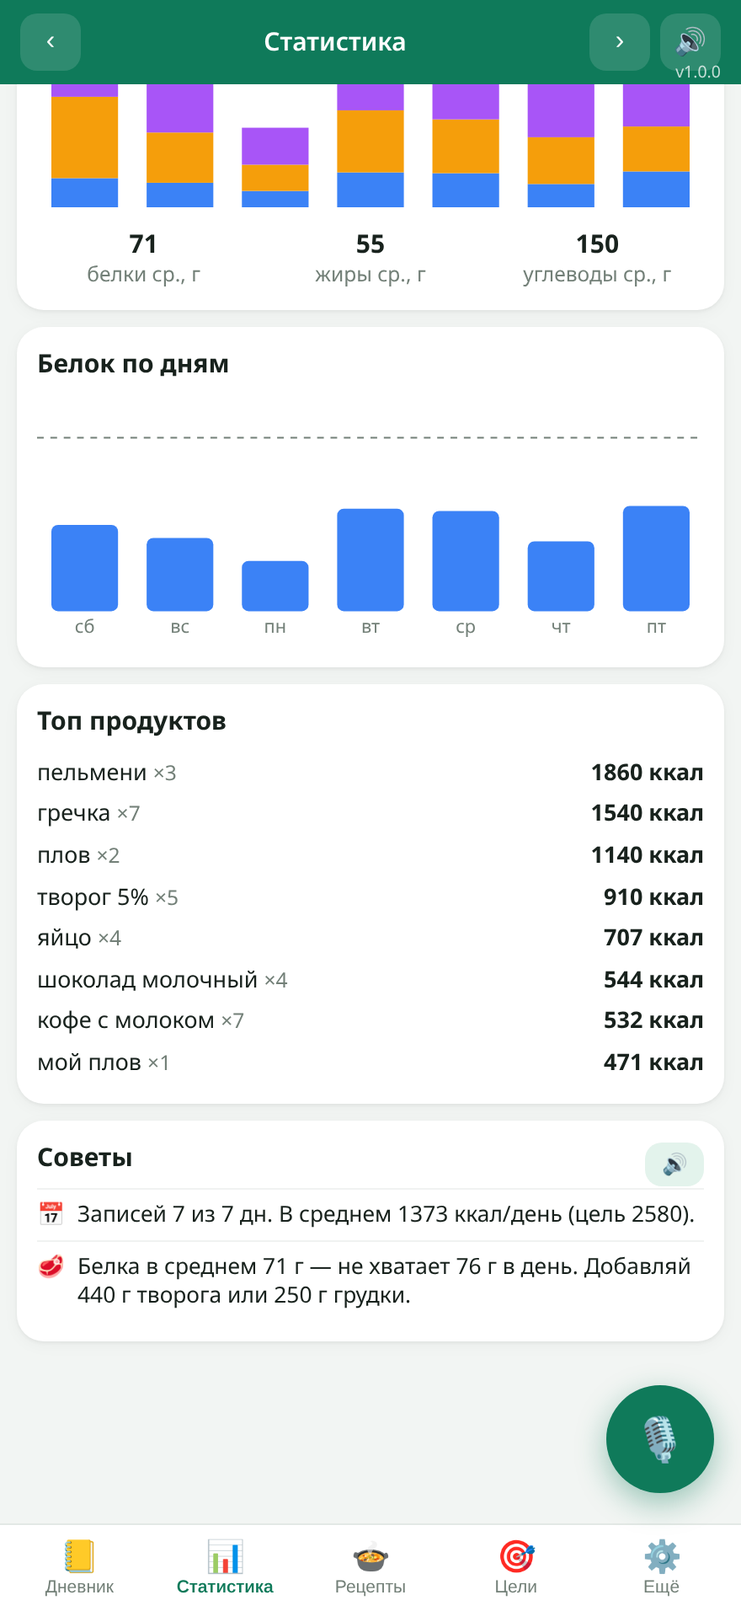
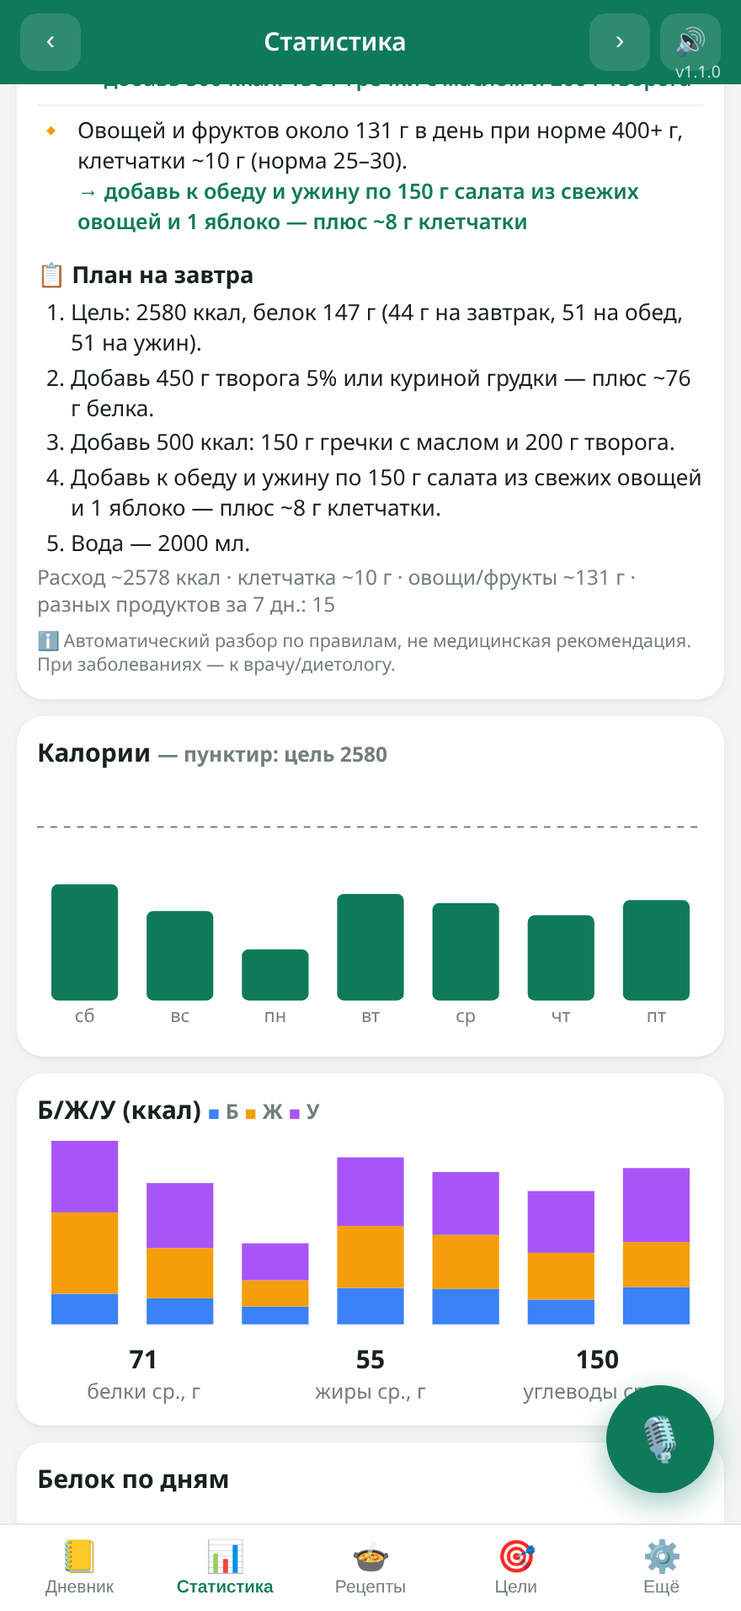
v1.1.0: раздел «Нутрициолог» (день/неделя/месяц), тесты

diff --git a/nutri.js b/nutri.js
@@ -1,0 +1,91 @@
+// «Нутрициолог»: офлайн-анализ рациона по правилам. Чистая функция — тестируется в node.
+(function(G){'use strict';
+const R=Math.round;
+const RX={sweet:/торт|шоколад|конфет|печень|пирожн|мороже|пломбир|эскимо|сгущ|варень|джем|повидл|мармелад|зефир|пастил|халв|нутелл|вафл|пряник|кекс|маффин|пончик|чизкейк|тирамису|батончик|сникерс|марс|твикс|киткат|сырок глазир|^сахар|мед$|карамел|медовик|наполеон|слойк/,
+ sugary:/лимонад|газировк|кола(?! зеро)|сок |^сок|морс|компот|кисель|энергетик|сироп|с сахаром|какао|раф|молочный коктейль|смузи/,
+ upf:/колбас|сосиск|сарделк|ветчин|бекон|буженин|шпикачк|чипс|наггетс|быстрого приготовления|доширак|майонез|лимонад|энергетик|батончик|сухарик|кириешк|кетчуп|фри|бургер|чизбургер|биг мак|хот дог|крабов|паштет|пицц|шаурм|шаверм|сырок глазир|рыбные палочки|сырные палочки|луковые кольца|попкорн|тушенк|колбаски/,
+ fried:/жарен|фри|чебурек|беляш|пончик|драники|наггетс|в кляре|яичниц|отбивн|шницел|чипс|оладь|пирожок|самса|луковые кольца|сырные палочки|по-киевски|поджарк/,
+ alco:/^пиво(?! безалк)|пиво темн|^вино|водк|коньяк|виски|шампанск|^ром|текил|джин|ликер|сидр|коктейль алког|^коктейль$|кофе по-ирландски/,
+ veg:/салат|овощ|рагу|винегрет|борщ|щи|окрошк|лечо|икра кабачк|капуста|брокколи|огур|помидор|томат|кабач|баклажан|перец|морков|свекл|шпинат|тыкв/,
+ legume:/фасол|чечевиц|нут|горох|горош|хумус|фалафел/,whole:/гречк|овсян|бур|перлов|булгур|киноа|черный|цельнозерн|ржан|отруб|мюсли|гранол|хлебц/,nut:/орех|миндал|фундук|арахис|кешью|фисташ|семечк|семена|кунжут|чиа|курага|изюм|чернослив|финик/};
+// клетчатка (г/100 г) — оценка по категории/названию
+function fiber100(e){ const n=e.name.toLowerCase(), c=e.cat||'';
+  if(RX.legume.test(n))return 6; if(RX.nut.test(n)||c==='nut')return 7; if(/отруб/.test(n))return 40; if(/сух|хлопья|мюсли|гранол/.test(n)&&c==='grain')return 9;
+  if(c==='fruit'||/^яблок|банан|груш/.test(n))return /сок/.test(n)?0.2:2.2; if(c==='veg')return 2.3;
+  if(RX.whole.test(n))return c==='bread'?6:2.5; if(c==='grain')return 1.2; if(c==='bread')return 2.5; if(RX.veg.test(n))return 1.5; return 0 }
+function vegG(e){ const n=e.name.toLowerCase(),c=e.cat||''; if(/сок|компот|варенье|джем/.test(n))return 0; if(c==='veg'||c==='fruit')return e.g; if(RX.veg.test(n)&&c==='dish')return e.g*.4; return 0 }
+const SWAPS=[ // [кого заменяем, на что, его название в базе, причина]
+ [/майонез(?! легк)/,'сметану 10%',{k:115},'майонез'],[/^сыр (российский|голландский|гауда|чеддер|маасдам)/,'сыр лёгкий 15–17% или моцареллу',{k:270},'жирный сыр'],
+ [/колбаса|сосиск|сарделк|бекон/,'запечённую куриную грудку',{k:148},'колбасные изделия'],[/шоколад|конфет|печень|торт|пирожн|вафл|батончик|пончик|кекс/,'яблоко или ягоды',{k:47},'сладости'],
+ [/лимонад|кола(?! зеро)|энергетик/,'воду или колу без сахара',{k:0},'сладкие напитки'],[/^сок /,'целый фрукт',{k:47},'сок'],[/картофель фри|картофель жареный/,'запечённый картофель',{k:114},'жареный картофель'],
+ [/хлеб белый|батон|булочк|круассан/,'хлеб цельнозерновой',{k:247},'белый хлеб'],[/^пиво(?! безалк)|^вино/,'безалкогольное пиво или воду с лимоном',{k:26},'алкоголь'],
+ [/чипс|сухарик|кириешк/,'горсть орехов (20 г) или хлебцы',{k:300},'чипсы'],[/жарен/,'то же блюдо, запечённое или на пару',null,'жареное'],
+ [/масло (подсолнечное|растительное|сливочное)/,'на 1 ложку меньше масла, готовить на сковороде с антипригарным покрытием',null,'масло'],[/сметана (2|3)0/,'сметану 10% или греческий йогурт',{k:115},'жирная сметана']];
+function swapFor(top,days){ // top: [{n,k,g,f}] средние за день
+  for(const t of top){ const n=t.n.toLowerCase(); for(const [re,to,alt,lab] of SWAPS) if(re.test(n)){ const k100=t.k/t.g*100, d=alt?R((k100-alt.k)*t.g/100):R(t.k*.25);
+      if(d>=20) return {from:t.n,to,kcal:d,text:`замени ${t.n.toLowerCase()} (${R(t.g)} г/день) на ${to} — минус ~${d} ккал в день`} } }
+  return null }
+function agg(list,key){ const m={}; list.forEach(e=>{const x=m[e.name]||(m[e.name]={n:e.name,k:0,f:0,g:0,c:0,cnt:0});x.k+=e.k;x.f+=e.f;x.g+=e.g;x.c+=e.c;x.cnt++}); return Object.values(m).sort((a,b)=>b[key]-a[key]) }
+function analyze(o){ const g=o.goals, w=(o.prof&&o.prof.w)||70, keys=o.days.map(d=>d.key), logged=o.days.filter(d=>d.entries.length), N=Math.max(1,logged.length), P=o.days.length;
+  if(!logged.length) return {empty:true,score:0,strengths:[],problems:[],plan:['Записывай всё, что ешь, хотя бы 3 дня — тогда я смогу дать разбор.'],speech:'Пока нет данных для анализа.'};
+  const all=logged.flatMap(d=>d.entries), S=k=>all.reduce((a,e)=>a+(+e[k]||0),0)/N;
+  const m={k:S('k'),p:S('p'),f:S('f'),c:S('c')}; m.pkg=m.p/w; const kc=m.p*4+m.f*9+m.c*4||1; m.pct={p:m.p*4/kc*100,f:m.f*9/kc*100,c:m.c*4/kc*100};
+  const gk=g.p*4+g.f*9+g.c*4||1; m.gpct={p:g.p*4/gk*100,f:g.f*9/gk*100,c:g.c*4/gk*100};
+  const tdee=o.tdee||g.k; m.bal=m.k-tdee; m.wkg=m.bal*7/7700; // кг/нед
+  const mealK={}; all.forEach(e=>mealK[e.meal]=(mealK[e.meal]||0)+e.k); const tk=all.reduce((a,e)=>a+e.k,0)||1; m.meal={}; ['завтрак','обед','ужин','перекус'].forEach(x=>m.meal[x]=(mealK[x]||0)/tk*100);
+  m.noBreakfast=logged.filter(d=>!d.entries.some(e=>e.meal==='завтрак')).length; m.heavyDinner=logged.filter(d=>{const t=d.entries.reduce((a,e)=>a+e.k,0)||1;return d.entries.filter(e=>e.meal==='ужин').reduce((a,e)=>a+e.k,0)/t>.4}).length;
+  m.fiber=all.reduce((a,e)=>a+fiber100(e)*e.g/100,0)/N; m.veg=all.reduce((a,e)=>a+vegG(e),0)/N;
+  const cls=re=>all.filter(e=>re.test(e.name.toLowerCase()));
+  m.sweetK=cls(RX.sweet).reduce((a,e)=>a+e.k,0)/N; m.sugar=(cls(RX.sweet).reduce((a,e)=>a+e.c*.6,0)+cls(RX.sugary).reduce((a,e)=>a+e.c*.9,0))/N;
+  m.upf=cls(RX.upf).reduce((a,e)=>a+e.k,0)/N/Math.max(1,m.k)*100; m.fried=cls(RX.fried).length/N; m.alcoK=cls(RX.alco).reduce((a,e)=>a+e.k,0)/N; m.alcoDays=logged.filter(d=>d.entries.some(e=>RX.alco.test(e.name.toLowerCase()))).length;
+  m.water=o.trackWater?logged.reduce((a,d)=>a+(d.water||0),0)/N:null;
+  m.distinct=new Set(all.map(e=>e.name)).size; m.distinctWeek=new Set(o.days.slice(-7).flatMap(d=>d.entries.map(e=>e.name))).size; m.regular=logged.length/P*100; m.perDay=all.length/N;
+  const topK=agg(all,'k').map(x=>({n:x.n,k:x.k/N,f:x.f/N,g:x.g/N,c:x.c/N,cnt:x.cnt})), topF=agg(all,'f').map(x=>({n:x.n,k:x.k/N,f:x.f/N,g:x.g/N}));
+  m.topK=topK.slice(0,5); m.topF=topF.slice(0,3);
+  // ----- оценка -----
+  const good=[],bad=[]; let sc=10; const pen=(v,txt,swap,w)=>{bad.push({t:txt,swap,w});sc-=v}, plus=(txt,w)=>good.push({t:txt,w});
+  const pk=R(m.pkg*10)/10, ptarget=Math.max(1.4,g.p/w);
+  if(m.pkg<1.2) pen(2,`Белка мало: ${R(m.p)} г в день — ${R(m.p/(ptarget*w)*100)}% нормы для веса ${R(w)} кг (нужно ~${R(ptarget*w)} г).`,`добавь ${R((ptarget*w-m.p)/0.17/10)*10} г творога 5% или куриной грудки — плюс ~${R(ptarget*w-m.p)} г белка`,3);
+  else if(m.pkg<ptarget-.15) pen(1,`Белка чуть меньше нормы: ${R(m.p)} г — ${R(m.p/(ptarget*w)*100)}% от ~${R(ptarget*w)} г для веса ${R(w)} кг.`,`добавь на перекус 150 г греческого йогурта — плюс ~15 г белка`,2);
+  else plus(`Белок в норме: ${R(m.p)} г в день — ${R(m.p/(ptarget*w)*100)}% нормы для веса ${R(w)} кг.`,3);
+  const dev=Math.abs(m.bal)/tdee*100, goalT=(o.prof&&o.prof.goal)||'keep';
+  const trend=m.wkg<-.05?`вес будет снижаться примерно на ${grams(-m.wkg)} в неделю`:m.wkg>.05?`вес будет расти примерно на ${grams(m.wkg)} в неделю`:'вес будет стабильным';
+  if(goalT==='lose'&&m.wkg<-1) pen(1.5,`Дефицит слишком большой (${R(-m.bal)} ккал): ${trend}, есть риск потерять мышцы.`,`добавь ${R(Math.min(400,-m.bal-500))} ккал: например, 150 г гречки и 100 г творога`,2);
+  else if(goalT==='lose'&&m.wkg<=-.15) plus(`Калории под цель: ${trend}.`,2);
+  else if((goalT==='lose'&&m.wkg>-.05)||(goalT==='keep'&&m.wkg>.2)||(goalT==='gain'&&m.wkg>.6)) pen(Math.min(2,dev/10),`Профицит: в среднем ${R(m.k)} ккал при расходе ~${R(tdee)}, ${trend}.`,swapFor(topK,N)?.text||`сократи порции гарнира на треть — минус ~150 ккал`,3);
+  else if(goalT==='keep'&&m.wkg<-.3) pen(Math.min(2,dev/12),`Калорий меньше расхода на ${R(-m.bal)} ккал (${R(m.k)} при ~${R(tdee)}): ${trend}, хотя цель — поддержание.`,`добавь ${R(Math.min(500,-m.bal)/10)*10} ккал: 150 г гречки с маслом и 200 г творога`,3);
+  else if(goalT==='gain'&&m.wkg<.1) pen(1,`Для набора маловато: ${trend}.`,`добавь 30 г орехов и банан — плюс ~300 ккал`,2);
+  else plus(`Калорийность сбалансирована: ${R(m.k)} ккал, ${trend}.`,2);
+  const df=m.pct.f-m.gpct.f, dc=m.pct.c-m.gpct.c;
+  if(df>7) pen(1,`Жиров ${R(m.pct.f)}% калорий (цель ${R(m.gpct.f)}%). Больше всего: ${m.topF.map(x=>x.n.toLowerCase()).join(', ')}.`,swapFor(topF,N)?.text||'меньше масла при готовке — минус ~90 ккал на ложку',2);
+  else if(dc>8) pen(1,`Углеводов ${R(m.pct.c)}% калорий (цель ${R(m.gpct.c)}%).`,swapFor(topK.filter(x=>x.c>x.f),N)?.text||'сделай половину гарнира овощами — минус ~100 ккал',2);
+  else if(Math.abs(df)<=5&&Math.abs(dc)<=6) plus(`Хорошее соотношение Б/Ж/У: ${R(m.pct.p)}/${R(m.pct.f)}/${R(m.pct.c)}%.`,2);
+  if(m.veg<250) pen(m.veg<120?1.5:.8,`Овощей и фруктов около ${R(m.veg)} г в день при норме 400+ г, клетчатки ~${R(m.fiber)} г (норма 25–30).`,`добавь к обеду и ужину по 150 г салата из свежих овощей и 1 яблоко — плюс ~8 г клетчатки`,2);
+  else if(m.fiber>=22) plus(`Достаточно растительной пищи: ~${R(m.veg)} г овощей/фруктов, клетчатки ~${R(m.fiber)} г.`,2);
+  else plus(`Овощей и фруктов ~${R(m.veg)} г в день — хорошо.`,1);
+  if(m.sugar>50||m.sweetK>250) pen(1.2,`Сахара много: ~${R(m.sugar)} г в день (ориентир до 50), сладостей на ${R(m.sweetK)} ккал.`,swapFor(topK.filter(x=>RX.sweet.test(x.n.toLowerCase())||RX.sugary.test(x.n.toLowerCase())),N)?.text||'сладкое — 1 раз в день и после еды; вместо второго десерта — фрукт',2);
+  else if(m.sugar<25) plus(`Сладкого мало — ~${R(m.sugar)} г сахара в день.`,1);
+  if(m.upf>25) pen(1,`Много ультра-обработанных продуктов: ${R(m.upf)}% калорий.`,swapFor(topK.filter(x=>RX.upf.test(x.n.toLowerCase())),N)?.text||'замени колбасу и полуфабрикаты на домашнее мясо/рыбу',2);
+  if(m.fried>=1.5) pen(.7,`Жареное почти каждый приём: ~${R(m.fried)} блюда в день.`,'запекай в духовке или на гриле — минус ~60–100 ккал на блюдо',1);
+  if(m.alcoK>100||m.alcoDays>Math.max(1,N/3)) pen(m.alcoK>250?1.5:.8,`Алкоголь: ~${R(m.alcoK)} ккал в день в среднем, дней с алкоголем ${m.alcoDays}.`,`замени ${(cls(RX.alco)[0]||{name:'пиво'}).name.toLowerCase()} на безалкогольное — минус ~${R(m.alcoK*.6)} ккал`,2);
+  if(m.water!=null){ if(m.water<g.w*.6) pen(.5,`Воды ~${R(m.water)} мл при цели ${g.w}.`,`ставь бутылку 500 мл на стол и выпивай до обеда — плюс ${R(g.w-m.water)} мл`,1); else if(m.water>=g.w*.9) plus(`Питьевой режим соблюдается: ~${R(m.water)} мл.`,1) }
+  if(m.noBreakfast>N/2&&m.meal.ужин>40) pen(.8,`Пропускаешь завтрак (${m.noBreakfast} из ${N} дн.) и ешь плотно вечером: на ужин ${R(m.meal.ужин)}% калорий.`,'перенеси 300–400 ккал с ужина на завтрак: омлет из 2 яиц и хлеб',2);
+  else if(m.heavyDinner>N/2) pen(.6,`Тяжёлые ужины: в ${m.heavyDinner} дн. ужин больше 40% калорий.`,'сделай ужин легче: рыба/курица 150 г + овощи, гарнир перенеси на обед',1);
+  else if(m.meal.завтрак>=15&&m.meal.ужин<=35) plus(`Калории хорошо распределены по дню: завтрак ${R(m.meal.завтрак)}%, ужин ${R(m.meal.ужин)}%.`,1);
+  if(P>=7){ if(m.distinctWeek<15) pen(.6,`Рацион однообразный: ${m.distinctWeek} разных продуктов за неделю (лучше 20–30).`,'добавь за неделю 2 новых овоща, рыбу и бобовые',1); else if(m.distinctWeek>=22) plus(`Разнообразное питание: ${m.distinctWeek} разных продуктов за неделю.`,1);
+    if(m.regular<70) pen(.5,`Записи есть только в ${R(m.regular)}% дней — анализ неточный.`,'записывай каждый приём сразу голосом — это 10 секунд',m.regular<50?2.5:1); else plus(`Регулярный дневник: записи в ${R(m.regular)}% дней.`,1) }
+  if(m.perDay<2.5) pen(.5,`В среднем всего ${R(m.perDay)} записи в день — возможно, что-то не записано.`,'записывай перекусы и напитки тоже',1);
+  good.sort((a,b)=>b.w-a.w); bad.sort((a,b)=>b.w-a.w);
+  const score=Math.max(1,Math.min(10,R(sc)));
+  // ----- план на завтра -----
+  const plan=[`Цель: ${g.k} ккал, белок ${g.p} г (${R(g.p*.3)} г на завтрак, ${R(g.p*.35)} на обед, ${R(g.p*.35)} на ужин).`];
+  bad.slice(0,3).forEach(b=>{ if(b.swap)plan.push(cap(b.swap)+'.') });
+  if(plan.length<4) plan.push('Овощи в каждый основной приём — минимум 400 г за день.');
+  if(m.water!=null&&plan.length<5) plan.push(`Вода — ${g.w} мл.`);
+  const label=o.mode==='day'?'за день':o.mode==='week'?'за неделю':'за месяц';
+  const speech=`Разбор ${label}. Оценка ${score} из 10. `+(good[0]?'Хорошо: '+good.slice(0,2).map(x=>x.t).join(' '):'')+(bad[0]?' Главное исправить: '+bad[0].t+' Совет: '+bad[0].swap+'.':'')+' План на завтра: '+plan.slice(1,3).join(' ');
+  return {score,strengths:good.slice(0,3),problems:bad.slice(0,3),plan:plan.slice(0,5),metrics:m,speech,tdee} }
+const grams=kg=>kg>=.95?R(kg)+' кг':R(kg*1000/50)*50+' г'; const cap=s=>s[0].toUpperCase()+s.slice(1);
+const N={analyze,fiber100,RX};
+if(typeof module!=='undefined'&&module.exports)module.exports=N; else G.NUTRI=N;
+})(typeof self!=='undefined'?self:this);

diff --git a/app.js b/app.js
@@ -1,5 +1,5 @@
 'use strict';
-const VER='1.0.0';
+const VER='1.1.0';
 const $=s=>document.querySelector(s), R=Math.round, esc=s=>String(s==null?'':s).replace(/[&<>"]/g,c=>({'&':'&amp;','<':'&lt;','>':'&gt;','"':'&quot;'}[c]));
 const MEALS=['завтрак','обед','ужин','перекус'], MI={завтрак:'🍳',обед:'🍲',ужин:'🍽',перекус:'🍎'};
 const KEY='kbju.v1';
@@ -93,14 +93,23 @@ function vStats(){ const seg=`<div class="seg">${[['day','День'],['week','Н
      <h3>Доля калорий</h3><div class="tr" style="display:flex;height:12px;border-radius:6px;overflow:hidden;background:#eef1ef"><i style="width:${t.p*4/kc*100}%;background:var(--P)"></i><i style="width:${t.f*9/kc*100}%;background:var(--F)"></i><i style="width:${t.c*4/kc*100}%;background:var(--C)"></i></div>
      <div class="mu">Белки ${R(t.p*4/kc*100)}% · Жиры ${R(t.f*9/kc*100)}% · Углеводы ${R(t.c*4/kc*100)}%</div></div>`;
     const tf=topFoods(L); h+=`<div class="card"><h2>Топ продуктов дня</h2>${tf.length?tf.map(x=>`<div class="kv"><span>${esc(x.n)}</span><b>${R(x.k)} ккал</b></div>`).join(''):'<div class="empty">Нет записей</div>'}</div>`;
-    lastAdv.stat=advice(L,g,{water:S.water[cur]||0}); return h+advHtml(lastAdv.stat,'stat') }
+    lastAdv.stat=advice(L,g,{water:S.water[cur]||0}); return h+vNutri([cur])+advHtml(lastAdv.stat,'stat') }
   const keys=periodKeys(statMode), act=keys.filter(k=>day(k).length), n=Math.max(1,act.length), all=keys.flatMap(day), T=tot(all), av={k:T.k/n,p:T.p/n,f:T.f/n,c:T.c/n};
-  let h=seg+`<div class="card"><h2>Среднее за день <span class="mu">(${act.length} дн. с записями)</span></h2>${summary(av,g)}</div>`;
+  let h=seg+`<div class="card"><h2>Среднее за день <span class="mu">(${act.length} дн. с записями)</span></h2>${summary(av,g)}</div>`+vNutri(keys);
   h+=`<div class="card"><h2>Калории <span class="mu">— пунктир: цель ${g.k}</span></h2>${chart(keys,'k',g.k,'#0f7a5a')}</div>`;
   h+=`<div class="card"><h2>Б/Ж/У (ккал) <span class="mu"><span style="color:var(--P)">■</span> Б <span style="color:var(--F)">■</span> Ж <span style="color:var(--C)">■</span> У</span></h2>${macroChart(keys)}<div class="g3" style="margin-top:6px;text-align:center"><div><b>${R(av.p)}</b><div class="mu">белки ср., г</div></div><div><b>${R(av.f)}</b><div class="mu">жиры ср., г</div></div><div><b>${R(av.c)}</b><div class="mu">углеводы ср., г</div></div></div></div>`;
   h+=`<div class="card"><h2>Белок по дням</h2>${chart(keys,'p',g.p,'#3b82f6')}</div>`;
   const tf=topFoods(all); h+=`<div class="card"><h2>Топ продуктов</h2>${tf.length?tf.map(x=>`<div class="kv"><span>${esc(x.n)} <span class="mu">×${x.c}</span></span><b>${R(x.k)} ккал</b></div>`).join(''):'<div class="empty">Нет записей</div>'}</div>`;
   lastAdv.stat=periodAdvice(keys); return h+advHtml(lastAdv.stat,'stat') }
+function vNutri(keys){ const r=NUTRI.analyze({days:keys.map(k=>({key:k,entries:day(k),water:S.water[k]||0})),goals:S.goals,prof:S.prof,tdee:mifflin(S.prof).tdee,mode:statMode,trackWater:S.set.water}); lastAdv.nutri=[[0,r.speech]];
+  const col=r.score>=8?'var(--g)':r.score>=5?'var(--F)':'var(--red)';
+  return `<details class="card nutri" ${S.set.nutriOpen!==false?'open':''}><summary class="row"><h2 class="sp" style="margin:0">🩺 Нутрициолог</h2>${r.empty?'':`<span class="score" style="background:${col}">${r.score}/10</span>`}<button class="btn s sm" data-say="nutri" onclick="event.preventDefault()">🔊</button><span class="chev">›</span></summary>
+  ${r.empty?`<div class="mu" style="margin-top:6px">${esc(r.plan[0])}</div>`:`
+  <h3>👍 Сильные стороны</h3>${r.strengths.map(x=>`<div class="adv"><span>✅</span><span>${esc(x.t)}</span></div>`).join('')||'<div class="mu">—</div>'}
+  <h3>⚠ Что улучшить</h3>${r.problems.map(x=>`<div class="adv"><span>🔸</span><span>${esc(x.t)}${x.swap?`<br><b class="swap">→ ${esc(x.swap)}</b>`:''}</span></div>`).join('')||'<div class="mu">Серьёзных проблем нет.</div>'}
+  <h3>📋 План на завтра</h3><ol class="plan">${r.plan.map(x=>`<li>${esc(x)}</li>`).join('')}</ol>
+  <div class="mu">Расход ~${R(r.tdee)} ккал · клетчатка ~${R(r.metrics.fiber)} г · овощи/фрукты ~${R(r.metrics.veg)} г · разных продуктов за 7 дн.: ${r.metrics.distinctWeek}</div>`}
+  <div class="mu" style="margin-top:6px;font-size:.72rem">ℹ Автоматический разбор по правилам, не медицинская рекомендация. При заболеваниях — к врачу/диетологу.</div></details>` }
 function recipeNut(r){ const s=r.ings.reduce((a,i)=>(a.k+=i.k*i.g/100,a.p+=i.p*i.g/100,a.f+=i.f*i.g/100,a.c+=i.c*i.g/100,a.g+=i.g,a),{k:0,p:0,f:0,c:0,g:0}); const y=r.yield||s.g||1;
   return {k:s.k/y*100,p:s.p/y*100,f:s.f/y*100,c:s.c/y*100,raw:s.g} }
 function vRecipes(){ let h=`<div class="card"><div class="row"><h2 class="sp">Мои рецепты</h2><button class="btn sm" data-newrec="1">＋ Рецепт</button></div><div class="mu">Добавляй голосом по названию: «мой плов 300 грамм» или «порция борща мамы».</div></div>`;
@@ -249,6 +258,7 @@ document.addEventListener('input',e=>{ const t=e.target,d=t.dataset;
   if(/^g[kpfc]$/.test(t.id)){ const k=+$('#gk').value,s=(+$('#gp').value)*4+(+$('#gf').value)*9+(+$('#gc').value)*4; $('#gsum').textContent=`Б/Ж/У дают ${R(s)} ккал (${k?R(s/k*100):0}% от цели)`; return }
   if(t.id==='sauto'){S.set.auto=t.checked;save();return} if(t.id==='swater'){S.set.water=t.checked;save();return}
 });
+document.addEventListener('toggle',e=>{ if(e.target.classList&&e.target.classList.contains('nutri')){S.set.nutriOpen=e.target.open;save()} },true);
 document.addEventListener('change',e=>{ const t=e.target,d=t.dataset; if(d.imeal!=null){V.items[+d.imeal].meal=t.value;return}
   if(t.id==='imp'&&t.files[0]){ t.files[0].text().then(x=>{ const j=JSON.parse(x); if(!j.days)throw 0; if(!confirm('Заменить текущие данные импортом?'))return; S=Object.assign(def(),j); save(); dirty(); render(); toast('Импортировано') }).catch(()=>toast('Неверный файл')) } });
 document.addEventListener('keydown',e=>{ if(e.key==='Enter'&&e.target.id==='pq'){e.preventDefault();showRes()} });

diff --git a/tests/nutri.test.js b/tests/nutri.test.js
@@ -1,0 +1,46 @@
+// node tests/nutri.test.js — тесты «Нутрициолога»
+global.self=global; require('../db.js'); const N=require('../nutri.js'); const F=n=>self.FOODS.find(f=>f.n===n);
+const E=(n,g,meal)=>{const f=F(n); if(!f)throw new Error('нет '+n); return {name:f.n,g,meal,cat:f.cat,k:f.k*g/100,p:f.p*g/100,f:f.f*g/100,c:f.c*g/100}};
+const goals={k:2200,p:140,f:70,c:240,w:2000}, prof={w:80,goal:'keep'};
+let ok=0,bad=0; const as=(c,m)=>{if(c)ok++;else{bad++;console.log('FAIL:',m)}};
+const days=(n,fn)=>Array.from({length:n},(_,i)=>({key:'d'+i,entries:fn(i),water:1000}));
+const noDigitsFrac=r=>![...r.strengths,...r.problems].some(x=>/\d[.,]\d/.test(x.t+(x.swap||'')))&&!r.plan.some(x=>/\d[.,]\d/.test(x.replace(/\d+%/g,'')))&&!/\d[.,]\d/.test(r.speech.replace(/10%/g,''));
+// 1. пустой
+let r=N.analyze({days:days(1,()=>[]),goals,prof,mode:'day'}); as(r.empty&&r.plan.length,'пустой день');
+// 2. плохой рацион: фастфуд, майонез, сладкое, без завтрака, алкоголь
+const junk=()=>[E('шаурма',350,'обед'),E('картофель фри',150,'обед'),E('лимонад',500,'обед'),E('пельмени',300,'ужин'),E('майонез',40,'ужин'),E('торт',150,'ужин'),E('пиво',1000,'ужин'),E('колбаса копченая',80,'перекус')];
+r=N.analyze({days:days(7,junk),goals,prof,mode:'week',trackWater:true});
+as(r.score<=4,'оценка плохого рациона низкая: '+r.score); as(r.problems.length===3,'3 проблемы');
+as(r.problems.every(p=>p.swap&&/\d/.test(p.swap)),'у каждой проблемы конкретная замена с цифрами');
+as(r.problems.some(p=>/Профицит|вес будет расти/.test(p.t)),'профицит и прогноз веса');
+as(r.metrics.alcoK>300&&r.metrics.upf>25&&r.metrics.sugar>50&&r.metrics.noBreakfast===7,'алкоголь/UPF/сахар/завтрак');
+as(r.metrics.wkg>0.3,'прогноз набора веса');
+as(noDigitsFrac(r),'только целые числа');
+as(/Оценка \d+ из 10/.test(r.speech),'озвучка с оценкой');
+as(r.plan.length>=3&&/Цель/.test(r.plan[0]),'план на завтра');
+const sw=r.problems.map(p=>p.swap).join(' ');
+// 3. хороший рацион
+const good=i=>[E('овсянка',250,'завтрак'),E('яйцо вареное',110,'завтрак'),E('яблоко',180,'завтрак'),E('гречка',200,'обед'),E('куриная грудка отварная',200,'обед'),E('салат из свежих овощей',200,'обед'),
+  E('творог 5%',200,'перекус'),E('банан',120,'перекус'),E(['треска запеченная','горбуша запеченная','индейка тушеная'][i%3],200,'ужин'),E(['брокколи на пару','капуста цветная отварная','кабачок тушеный'][i%3],250,'ужин'),E(['хлеб цельнозерновой','рис бурый','чечевица'][i%3],120,'ужин'),E(['грецкие орехи','миндаль','кешью'][i%3],25,'перекус')];
+r=N.analyze({days:days(7,good),goals,prof,mode:'week',trackWater:true});
+as(r.score>=7,'хороший рацион ≥7: '+r.score+' '+JSON.stringify(r.problems.map(p=>p.t))); as(r.strengths.length===3,'3 сильные стороны');
+as(r.strengths.some(s=>/Белок в норме/.test(s.t)),'белок в норме'); as(r.metrics.fiber>=20&&r.metrics.veg>=400,'клетчатка/овощи: '+Math.round(r.metrics.fiber)+' '+Math.round(r.metrics.veg));
+as(noDigitsFrac(r),'целые числа (хороший)');
+// 4. белок на кг
+r=N.analyze({days:days(1,()=>[E('макароны',400,'обед'),E('хлеб белый',100,'ужин'),E('яблоко',180,'завтрак')]),goals,prof:{w:90,goal:'keep'},mode:'day'});
+as(r.problems.some(p=>/Белка мало/.test(p.t)&&/90 кг/.test(p.t)),'белок на кг веса');
+// 5. замена майонеза — минус ккал
+r=N.analyze({days:days(3,()=>[E('майонез',60,'обед'),E('салат оливье',300,'обед'),E('куриная грудка отварная',300,'ужин'),E('сыр российский',80,'ужин'),E('яйцо',110,'завтрак')]),goals,prof,mode:'week'});
+as(r.problems.some(p=>/майонез.*сметану 10%.*минус ~\d+ ккал/.test(p.swap)),'замена майонеза: '+JSON.stringify(r.problems.map(p=>p.swap)));
+// 6. похудение: сильный дефицит
+r=N.analyze({days:days(5,()=>[E('огурец',200,'обед'),E('яблоко',180,'завтрак'),E('кефир 1%',250,'ужин')]),goals,prof:{w:80,goal:'lose'},tdee:2600,mode:'week'});
+as(r.problems.some(p=>/Дефицит слишком большой/.test(p.t)),'слишком большой дефицит');
+// 7. регулярность и разнообразие
+r=N.analyze({days:days(30,i=>i%3?[]:[E('гречка',200,'обед'),E('котлета',160,'ужин'),E('чай',200,'завтрак')]),goals,prof,mode:'month'});
+as(r.problems.some(p=>/однообразный|только в/.test(p.t)),'регулярность/разнообразие'); as(r.metrics.regular<50,'регулярность %');
+r=N.analyze({days:days(3,()=>[E('гречка',200,'обед'),E('куриная грудка отварная',300,'ужин')]),goals,prof,tdee:2600,mode:'week'});
+as(r.problems.some(p=>/поддержание/.test(p.t)),'дефицит при цели «поддержание»');
+// 8. классификация
+as(N.RX.fried.test('картофель жареный')&&N.RX.alco.test('пиво')&&!N.RX.alco.test('пиво безалкогольное')&&N.RX.upf.test('колбаса вареная')&&N.RX.sweet.test('шоколад молочный'),'категории');
+as(N.fiber100({name:'чечевица',cat:'grain'})===6&&N.fiber100({name:'курица',cat:'meat'})===0,'клетчатка');
+console.log(`\n${ok} passed, ${bad} failed`); process.exit(bad?1:0);

diff --git a/index.html b/index.html
@@ -39,6 +39,7 @@ nav button{flex:1;border:0;background:none;font-size:.7rem;color:var(--mu);paddi
 .kv{display:flex;justify-content:space-between;padding:3px 0;font-size:.9rem}.wt{display:flex;gap:4px;flex-wrap:wrap;align-items:center}.wt i{width:20px;height:26px;border-radius:4px 4px 7px 7px;background:#e3eef8;display:inline-block}.wt i.f{background:#60a5fa}
 .empty{text-align:center;color:var(--mu);padding:18px 8px}.tog{display:flex;align-items:center;justify-content:space-between;padding:6px 0}.tog input{width:auto;transform:scale(1.3)}
 #toast{position:fixed;left:50%;transform:translateX(-50%);bottom:calc(150px + env(safe-area-inset-bottom));background:#18221de6;color:#fff;padding:9px 14px;border-radius:12px;z-index:30;display:none;font-size:.9rem;max-width:90vw}
+details.nutri>summary{list-style:none;cursor:pointer}details.nutri>summary::-webkit-details-marker{display:none}.chev{color:var(--mu);transition:transform .15s}details[open] .chev{transform:rotate(90deg)}.score{color:#fff;border-radius:10px;padding:3px 9px;font-weight:700;font-size:.9rem}.swap{color:var(--g);font-weight:600;font-size:.84rem}.plan{margin:0;padding-left:20px;font-size:.88rem}.plan li{margin:3px 0}
 video{width:100%;border-radius:12px;background:#000}
 </style></head><body>
 <header><button id="prev" aria-label="Предыдущий день">‹</button><div class="d" id="dlabel"></div><button id="next" aria-label="Следующий день">›</button><button id="say" title="Озвучить">🔊</button><span id="ver"></span></header>
@@ -48,5 +49,5 @@ video{width:100%;border-radius:12px;background:#000}
 <div class="sheet" id="sheet"><div id="sbody"></div></div>
 <div class="sheet" id="sheet2"><div id="sbody2"></div></div>
 <div id="toast"></div>
-<script src="db.js"></script><script src="parser.js"></script><script src="app.js"></script>
+<script src="db.js"></script><script src="parser.js"></script><script src="nutri.js"></script><script src="app.js"></script>
 </body></html>

diff --git a/sw.js b/sw.js
@@ -1,4 +1,4 @@
-const V='1.0.0',C='kbju-'+V,F=['./','index.html','app.js','parser.js','db.js','manifest.json','icon-192.png','icon-512.png','apple-touch-icon.png'];
+const V='1.1.0',C='kbju-'+V,F=['./','index.html','app.js','parser.js','nutri.js','db.js','manifest.json','icon-192.png','icon-512.png','apple-touch-icon.png'];
 self.addEventListener('install',e=>{e.waitUntil(caches.open(C).then(c=>c.addAll(F.map(u=>new Request(u,{cache:'reload'})))));self.skipWaiting()});
 self.addEventListener('activate',e=>{e.waitUntil(caches.keys().then(k=>Promise.all(k.filter(x=>x!==C).map(x=>caches.delete(x)))).then(()=>self.clients.claim()))});
 // network-first без HTTP-кэша (cache:'no-store' — iOS не отдаст устаревший index.html); офлайн — из кэша

diff --git a/tests/e2e.py b/tests/e2e.py
@@ -14,7 +14,7 @@ async def main():
     await c.add_init_script(FAKE); pg=await c.new_page()
     pg.on('console',lambda m: m.type=='error' and errs.append(m.text)); pg.on('pageerror',lambda e: errs.append(str(e)))
     await pg.goto(URL); await pg.wait_for_selector('#nav button')
-    assert 'v1.0.0' in await pg.inner_text('#ver')
+    assert 'v1.1.0' in await pg.inner_text('#ver')
     # голос: завтрак+обед
     await pg.evaluate("window.__nextTranscript='на завтрак два яйца и кофе с молоком, на обед 200 грамм гречки и куриная грудка'")
     await pg.click('#fab'); await pg.wait_for_selector('.pi'); await pg.wait_for_timeout(300)
@@ -55,6 +55,9 @@ async def main():
     await pg.reload(); await pg.wait_for_selector('#nav button')
     await pg.click('[data-tab="stats"]'); await pg.screenshot(path='shots/stats-day.png',full_page=False)
     await pg.click('[data-sm="week"]'); await pg.wait_for_timeout(100); await pg.screenshot(path='shots/stats.png',full_page=False); await pg.evaluate('window.scrollTo(0,600)'); await pg.screenshot(path='shots/stats-week-bottom.png')
+    await pg.evaluate("document.querySelector('details.nutri').scrollIntoView();window.scrollBy(0,-62)"); await pg.wait_for_timeout(100); await pg.screenshot(path='shots/nutritionist.png')
+    nt=await pg.inner_text('details.nutri'); print('nutri week:',nt[:400].replace('\n',' | ')); assert '/10' in nt and 'не медицинская' in nt
+    await pg.click('[data-say="nutri"]'); print('nutri tts:',(await pg.evaluate('window.__tts'))[-1][:160])
     await pg.click('[data-sm="month"]'); await pg.wait_for_timeout(100); await pg.screenshot(path='shots/stats-month.png',full_page=False)
     print('month advice',await pg.inner_text('.adv'))
     txt=await pg.inner_text('#app'); import re

diff --git a/README.md b/README.md
@@ -4,3 +4,4 @@
 - `parser.js` — разбор русской фразы (общий для голоса и клавиатуры), тесты: `node tests/parser.test.js`
 - e2e: `tests/e2e.py` (Playwright, 440px, имитация распознавания речи)
 Данные хранятся только в localStorage устройства; экспорт/импорт JSON во вкладке «Ещё».
+- `nutri.js` — «Нутрициолог» (оценка /10, сильные стороны, проблемы с заменами, план), тесты: `node tests/nutri.test.js`
